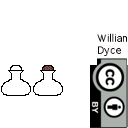
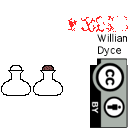
added death animations for projectiles, also new animation for lost orbs

diff --git a/jni/src/gameplay/things/MinionThing.cpp b/jni/src/gameplay/things/MinionThing.cpp
@@ -21,12 +21,14 @@ along with this program.  If not, see <http://www.gnu.org/licenses/>.
 #include "FallingThing.hpp"
 
 #include "elements/ColliderElement.hpp"
+#include "events/CollisionEvent.hpp"
 
 #include "../../resources/GraphicsManager.hpp"
 
+#include "../../global.hpp" // for WINDOW_DEFAULT_W
+
 MinionThing::MinionThing(V2i _position) :
 Thing(_position, "minion"),
-dying(false),
 graphic(this, V2f(64, 36)),
 movement(this, 2.0f)
 {
@@ -48,8 +50,17 @@ void MinionThing::draw()
 
 int MinionThing::update(GameState* context, float delta)
 {
-  if(!dying)
+  // cache animations
+  static Animation
+    *anim_normal = GraphicsManager::getInstance()->get_animation("minion"),
+    *anim_impify = GraphicsManager::getInstance()->get_animation("minion_impify"),
+    *anim_die = GraphicsManager::getInstance()->get_animation("minion_die"),
+    *anim_imp = GraphicsManager::getInstance()->get_animation("imp");
+
+  // if playing normal animation, state is normal
+  if(graphic.isSprite(anim_normal))
   {
+    // cache hero position
     V2f hero_pos = context->getHero()->getPosition();
 
     // home in on player
@@ -59,12 +70,12 @@ int MinionThing::update(GameState* context, float delta)
       movement.addSpeedY(-0.01f);
 
     // die if past player
-    if(position.x > hero_pos.x + 96.0f)
+    if(position.x > hero_pos.x + 96.0f
+    // die if too far to the right of the screen
+    || position.x > WINDOW_DEFAULT_W - 96.0f)
     {
-      graphic.setSprite(GraphicsManager::getInstance()->
-                    get_animation("minion_die"), 0.1f);
+      graphic.setSprite(anim_impify, 0.1f);
       movement.setSpeed(V2f(1.0f, 0.0f));
-      dying = true;
     }
   }
 
@@ -74,20 +85,39 @@ int MinionThing::update(GameState* context, float delta)
 
   // treat events last of all, as they will be cleared by Thing::update
   static str_id out_of_bounds = numerise("out_of_bounds"),
-                animation_end = numerise("animation_end");
+                animation_end = numerise("animation_end"),
+                collision = numerise("collision");
+
   for(EventIter i = events.begin(); i != events.end(); i++)
   {
-    if(dying && (*i)->getType() == animation_end)
+    // if event is "collision" and colliding with the hero
+    if((*i)->getType() == collision
+    && ((CollisionEvent*)(*i))->getOther() == context->getHero())
     {
-      // create the imps
-      static Animation* imp = GraphicsManager::getInstance()->get_animation("imp");
-      for(unsigned int i = 0; i < 3; i++)
-      {
-        V2f spawn_pos(position.x + RAND_BETWEEN(-4,4), position.y - 16 + 16*i);
-        context->addThing(new FallingThing(spawn_pos, "imp", imp , 0.15f, 0.0f));
-      }
-      die();
+      graphic.setSprite(anim_die, 0.1f);
+      movement.setSpeed(V2f(0.5f, 0.0f));
     }
+
+    // if event is "animation end"
+    else if((*i)->getType() == animation_end)
+    {
+      // if turning into an imp
+      if(graphic.isSprite(anim_impify))
+      {
+        // create the imps
+        for(unsigned int i = 0; i < 3; i++)
+        {
+          V2f spawn_pos(position.x + RAND_BETWEEN(-4,4), position.y - 16 + 16*i);
+          context->addThing(new FallingThing(spawn_pos, "imp", anim_imp , 0.15f, 0.0f));
+        }
+        die();
+      }
+      // if exploding
+      else if(graphic.isSprite(anim_die))
+        die();
+    }
+
+    // if event is "out of bounds"
     else if((*i)->getType() == out_of_bounds)
       die();
   }

diff --git a/jni/src/gameplay/things/AngelThing.cpp b/jni/src/gameplay/things/AngelThing.cpp
@@ -46,7 +46,7 @@ const float AngelThing::THRUST = 6.0f;
 const float AngelThing::FRICTION = 0.2f;
 const float AngelThing::SPEED_H_INC = 0.01f;
 const float AngelThing::SPEED_H_MAX = 0.1f;
-const float AngelThing::SPEED_H_BOOST = 4.0f;
+const float AngelThing::SPEED_H_BOOST = 8.0f;
 const float AngelThing::SPEED_V_BOOST = 2.5f;
 const float AngelThing::DELTA_V_BOOST = 0.2f;
 
@@ -243,12 +243,12 @@ void AngelThing::setState(State const& new_state, GameState* context)
               : orbs.withdrawAll();
 
     // create the orbs
-    static Animation* orb = GraphicsManager::getInstance()->get_animation("orb");
+    static Animation* orb_die = GraphicsManager::getInstance()->get_animation("orb_die");
     for(unsigned int i = 0; i < n_lost; i++)
     {
       V2f spawn_pos(position.x - RAND_BETWEEN(24, 48),
                     position.y + RAND_BETWEEN(-16, 16));
-      context->addThing(new FallingThing(spawn_pos, "dead_orb", orb, 0.1f, 0.2f));
+      context->addThing(new EffectThing(spawn_pos, orb_die, 0.1f));
     }
   }
 
@@ -341,19 +341,34 @@ int AngelThing::treatEvent(ThingEvent* event, GameState* context)
     static str_id orb = numerise("orb"), minion = numerise("minion"),
                   imp = numerise("imp");
 
-    // hit by minion
-    if(other->getType() == minion || other->getType() == imp)
+
+    // hit by cerberus head
+    if(other->getType() == imp)
     {
-      setState(STUNNED, context);
-      movement.addSpeedX(-3.0f);
-      movement.setSpeedY(0.0f);
+      if(state != &STUNNED && state != &BOOSTING)
+      {
+        setState(STUNNED, context);
+        movement.addSpeedX(-1.0f);
+        movement.setSpeedY(0.0f);
+      }
+      // always kill the other, even if stunned!
       other->die();
+      context->addThing(new EffectThing((V2i)other->getPosition(),
+              GraphicsManager::getInstance()->get_animation("imp_die"), 0.1f));
     }
 
-    // collide with orb
-    if(other->getType() == orb)
+    if(state != &STUNNED)
     {
-      if (state != &STUNNED)
+      // hit by minion
+      if(other->getType() == minion && state != &BOOSTING)
+      {
+        setState(STUNNED, context);
+        movement.addSpeedX(-3.0f);
+        movement.setSpeedY(0.0f);
+      }
+
+      // collide with orb
+      if(other->getType() == orb)
       {
         // create special effect
         buff.setFrame(0.0f);
@@ -371,9 +386,9 @@ int AngelThing::treatEvent(ThingEvent* event, GameState* context)
 
           feathers.depositMax();
         }
-      }
-    }
-  }
+      } // if(other->getType() == orb)
+    } // if(state != &STUNNED)
+  } // if(event->getType() == COLLISION)
 
   // nothing to report
   return GameState::CONTINUE;

diff --git a/jni/src/graphics/GraphicIncarnation.hpp b/jni/src/graphics/GraphicIncarnation.hpp
@@ -44,10 +44,12 @@ public:
                     V2f _offset = V2f(0.0f, 0.0f),
                     char _flags = CENTER_X|CENTER_Y);
   ~GraphicIncarnation();
+  // query
+  bool isSprite(Graphic* check_sprite) const;
   // accessors
   void setAngle(float new_angle);
   bool setSprite(Graphic* new_sprite);
-  // modificatio
+  // modification
   virtual void setPosition(V2f _position);
   virtual void draw();
 };

diff --git a/jni/src/graphics/AnimationIncarnation.hpp b/jni/src/graphics/AnimationIncarnation.hpp
@@ -37,11 +37,10 @@ public:
                   V2f offset = V2f(0.0f, 0.0f),
                   char flags = CENTER_X|CENTER_Y);
   ~AnimationIncarnation();
-  // accessors
+  // modification
   void setFrame(float new_frame);
   void setRandFrame();
   bool setSprite(Animation* new_sprite, float new_speed = 0);
-  // modification
   void draw();
 
   /// SUBROUTINES

diff --git a/jni/src/graphics/GraphicIncarnation.cpp b/jni/src/graphics/GraphicIncarnation.cpp
@@ -34,7 +34,14 @@ GraphicIncarnation::~GraphicIncarnation()
     // NB - the sprite is NOT freed as it may in use elsewhere
 }
 
-// Accessors
+/// QUERY
+
+bool GraphicIncarnation::isSprite(Graphic* check_sprite) const
+{
+  return (sprite == check_sprite);
+}
+
+/// MODIFICATION
 
 void GraphicIncarnation::setAngle(float new_angle)
 {

diff --git a/jni/src/gameplay/things/EffectThing.cpp b/jni/src/gameplay/things/EffectThing.cpp
@@ -32,6 +32,9 @@ graphic(this)
 
 int EffectThing::update(GameState* context, float delta)
 {
+  /// FIXME -- kludge quickfix for "Black Dog" which scrolls right-to-left ;)
+  position.x -= 3.0f;
+
   // animate the sprite
   graphic.update(context, delta);
 

diff --git a/jni/src/graphics/AnimationIncarnation.cpp b/jni/src/graphics/AnimationIncarnation.cpp
@@ -29,7 +29,7 @@ AnimationIncarnation::~AnimationIncarnation()
 {
 }
 
-// Accessors
+/// MODIFICAITON
 
 bool AnimationIncarnation::setSprite(Animation* new_sprite, float new_speed)
 {

diff --git a/jni/src/gameplay/things/MinionThing.hpp b/jni/src/gameplay/things/MinionThing.hpp
@@ -27,7 +27,6 @@ class MinionThing : public Thing
 {
   /// ATTRIBUTES
 private:
-  bool dying;
   AnimatedElement graphic;
   MovementElement movement;
 
